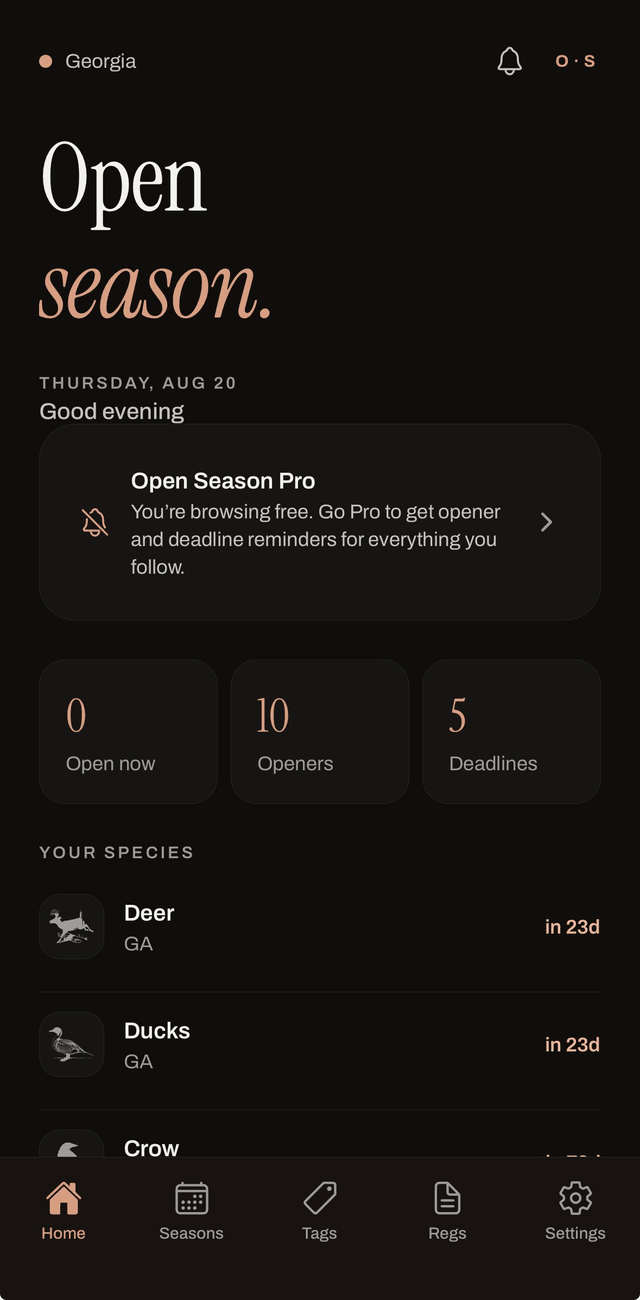
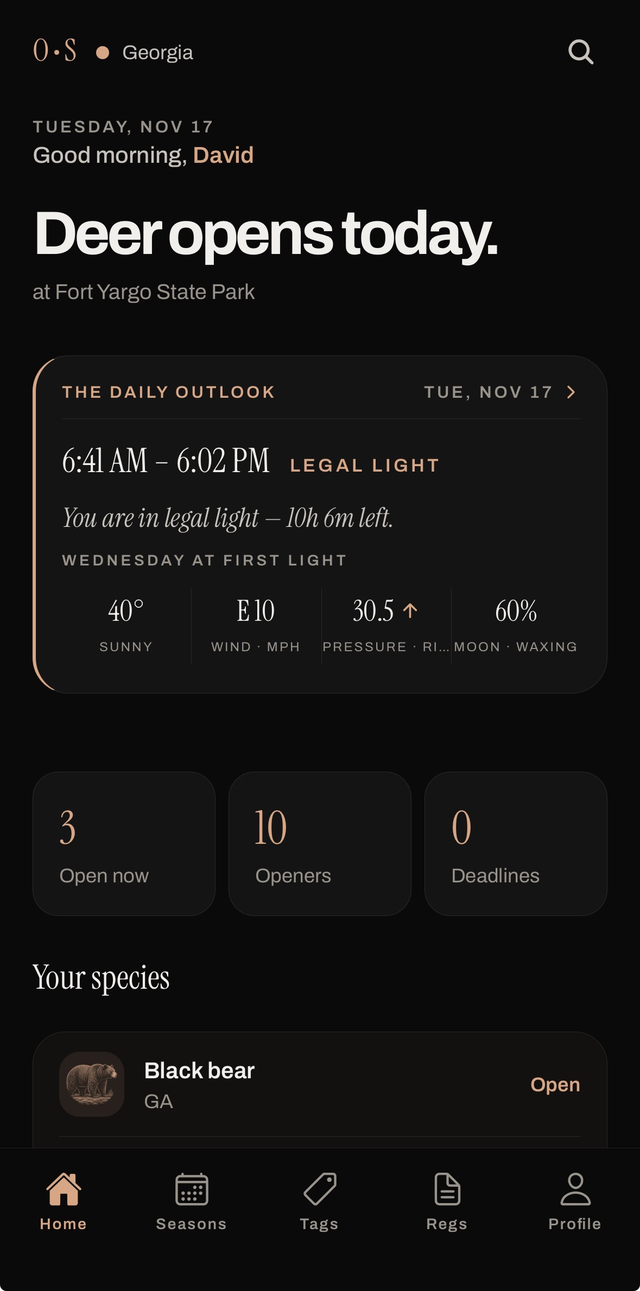
The screenshots are the redesigned app again
The site had been showing the pre-1.4.5 app: an interface no new visitor
would recognise once they installed it. These are captures from 1.4.7.

The hero is Home as it reads now -- the greeting, the daily outlook, legal
light. The "look inside" row trades the old season-detail and tag-deadline
shots for Leftovers and the ledger, both of which are full of real content;
the tag-deadline screen on a real account currently says there are none,
which is a poor advertisement for never missing one.

Every capture is cropped to one aspect ratio before resizing, so the three
frames in the row are the same shape.

diff --git a/index.html b/index.html
@@ -114,8 +114,8 @@
   <h2 class="h2 serif" style="text-align:center">Real dates. <span class="it">Official sources.</span></h2>
   <div class="shots">
     <div class="shot"><img src="seasons.png" alt="Seasons list"><span>Every opener, soonest first</span></div>
-    <div class="shot"><img src="detail.png" alt="Season detail"><span>Dates, limits &amp; the official source</span></div>
-    <div class="shot"><img src="tags.png" alt="Tag deadlines"><span>Never miss a tag deadline</span></div>
+    <div class="shot"><img src="leftovers.png" alt="Leftover tag sales"><span>The tags nobody drew &mdash; and the hour</span></div>
+    <div class="shot"><img src="ledger.png" alt="Draw applications and costs"><span>Every draw you're in, and what it cost</span></div>
   </div>
 </section>
 
